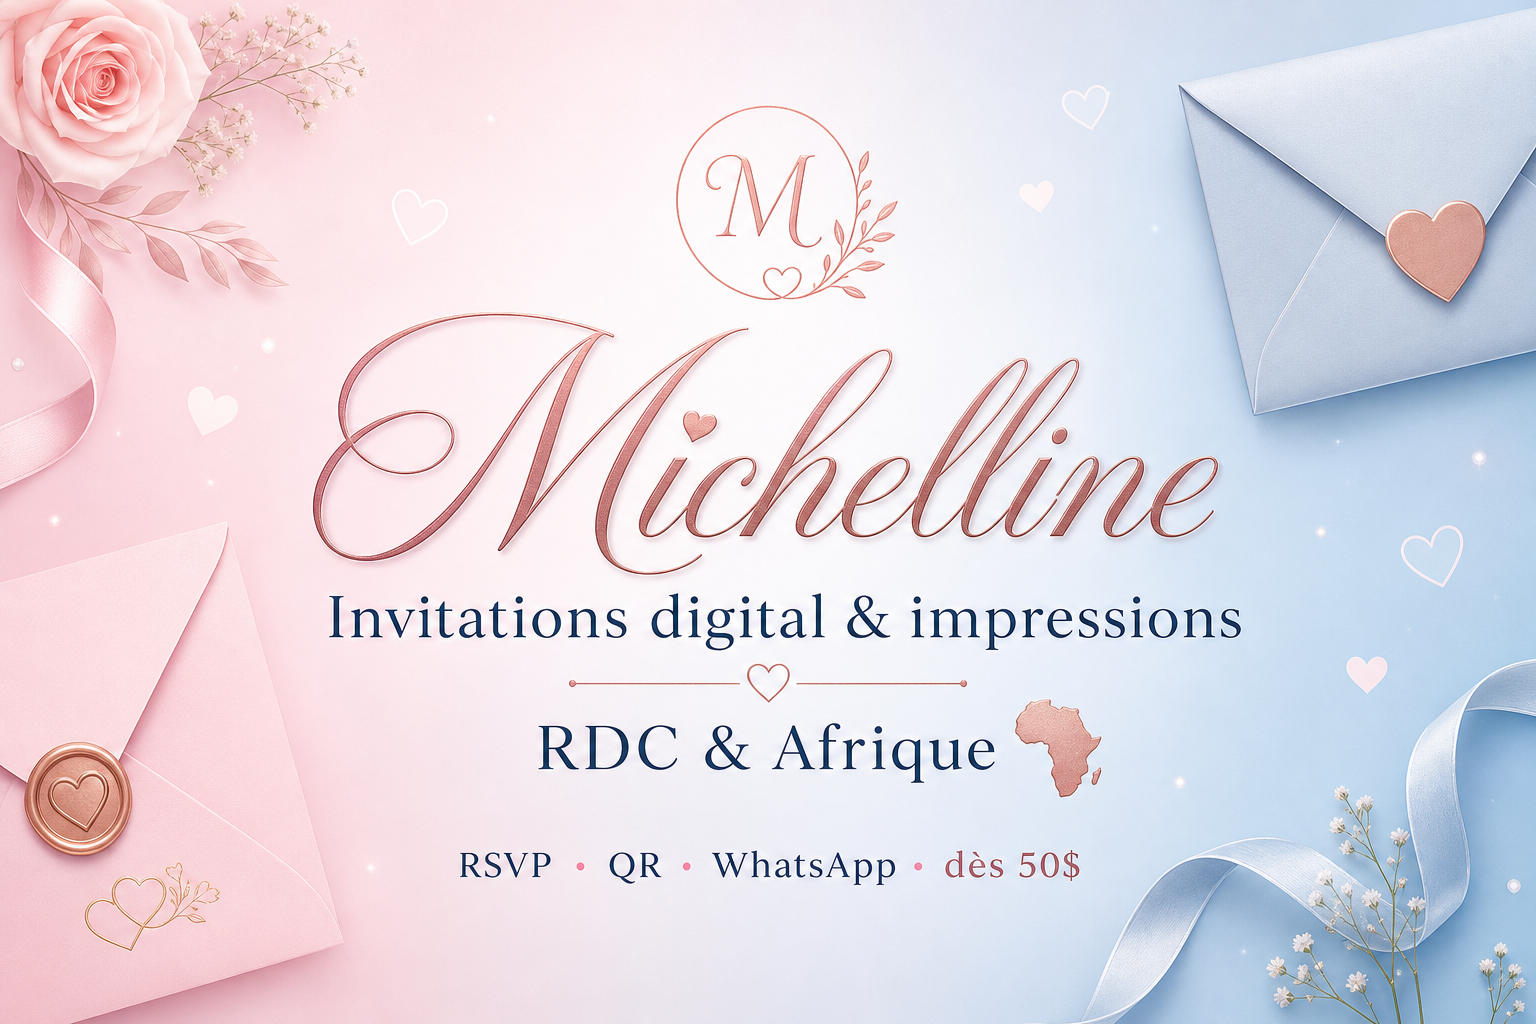
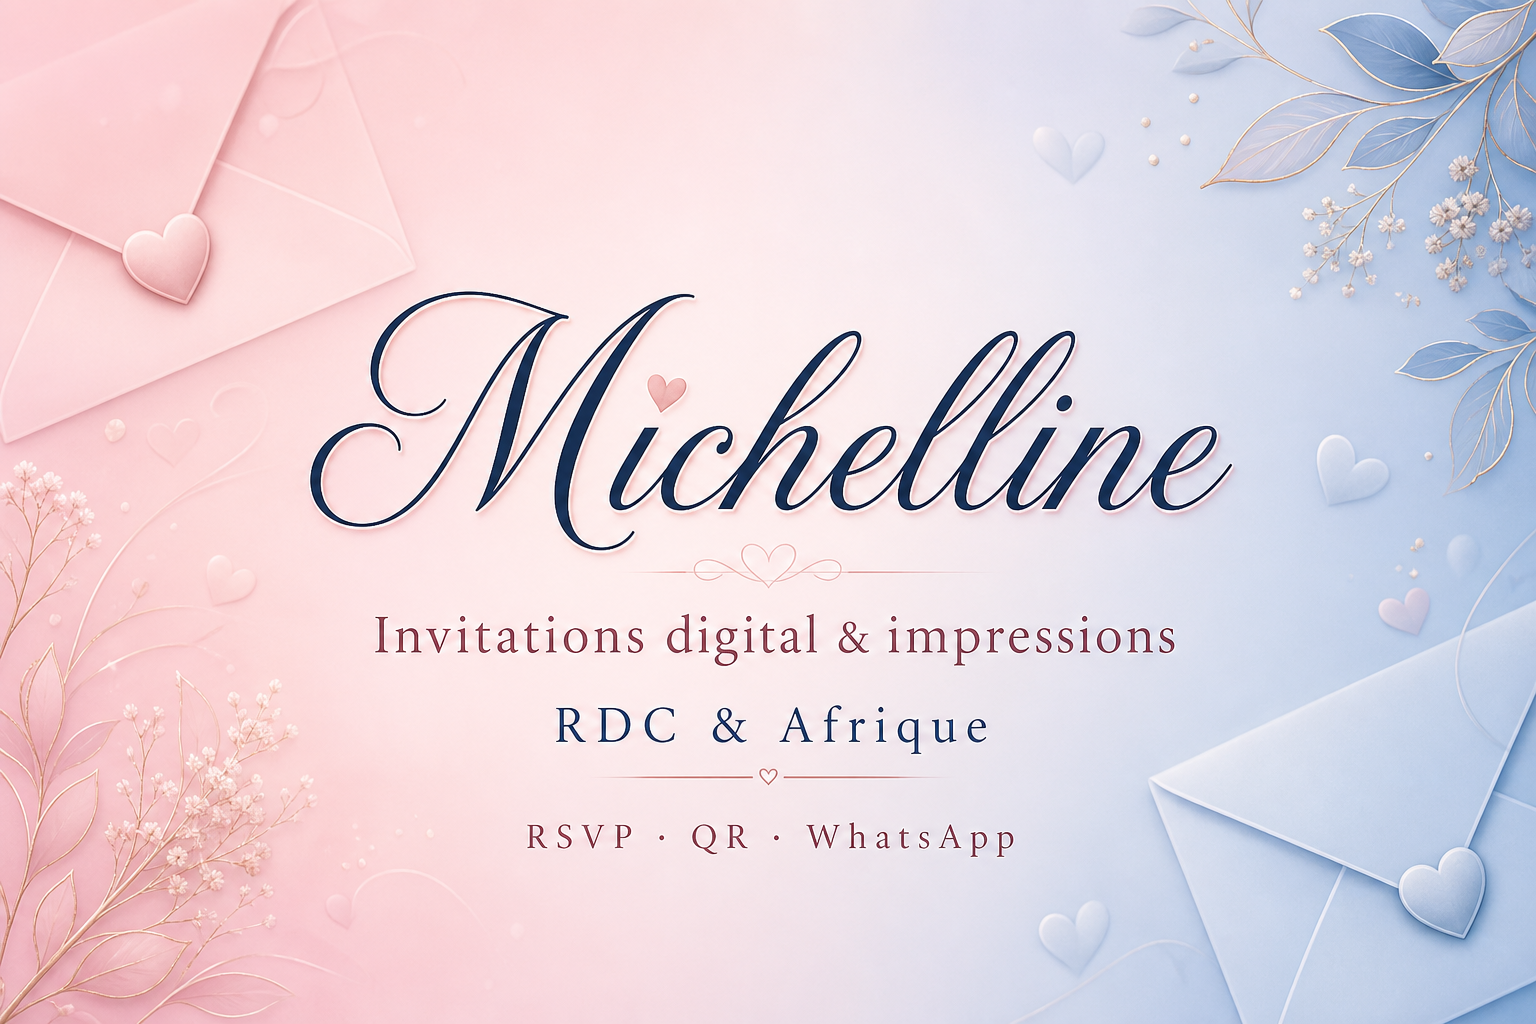
Accueil: banniere Michelline, OG sans prix, photos print corrigees, kit promo fixe.

diff --git a/index.html b/index.html
@@ -3,64 +3,81 @@
 <head>
     <meta charset="UTF-8">
     <meta name="viewport" content="width=device-width, initial-scale=1.0, viewport-fit=cover">
-    <meta name="theme-color" content="#4caf50">
-    <title>Michelline — Invitations digitales</title>
+    <meta name="theme-color" content="#ec4899">
+    <title>Michelline — Invitations digitales &amp; impressions</title>
+    <meta name="description" content="Michelline — Invitations digitales et impressions physiques. RSVP, QR, WhatsApp. RDC &amp; Afrique.">
+    <meta property="og:title" content="Michelline — Invitations digital &amp; impressions">
+    <meta property="og:description" content="RSVP mobile, QR code, WhatsApp. Digital et cartes imprimées. RDC &amp; Afrique.">
+    <meta property="og:image" content="https://alphagiven7-collab.github.io/invitation_mariage/assets/images/michelline-og-offres.png">
     <meta http-equiv="Cache-Control" content="no-cache, no-store, must-revalidate">
-    <meta http-equiv="Pragma" content="no-cache">
-    <meta http-equiv="Expires" content="0">
     <link href="https://fonts.googleapis.com/css2?family=Great+Vibes&family=Montserrat:wght@400;600&family=Playfair+Display:wght@600&display=swap" rel="stylesheet">
     <style>
         * { box-sizing: border-box; }
         body {
             margin: 0;
             min-height: 100vh;
+            min-height: 100dvh;
             font-family: "Montserrat", system-ui, sans-serif;
             background: linear-gradient(160deg, #fdf2f8 0%, #eef4ff 50%, #fafafa 100%);
             display: flex;
             align-items: center;
             justify-content: center;
-            padding: 1.25rem;
+            padding: 1rem;
             color: #1f2937;
         }
         .hub {
             width: 100%;
             max-width: 22rem;
-            background: rgba(255,255,255,0.95);
+            background: rgba(255,255,255,0.97);
             border-radius: 1.25rem;
-            padding: 1.75rem 1.25rem;
+            overflow: hidden;
             text-align: center;
-            box-shadow: 0 20px 50px rgba(17,24,39,0.1);
+            box-shadow: 0 20px 50px rgba(17,24,39,0.12);
             border: 1px solid rgba(236,72,153,0.15);
+        }
+        .hub-visual {
+            display: block;
+            width: 100%;
+            height: auto;
+            aspect-ratio: 1200 / 630;
+            object-fit: cover;
+            border-bottom: 1px solid rgba(236,72,153,0.12);
+        }
+        .hub-body {
+            padding: 1.25rem 1.15rem 1.5rem;
         }
         .hub-brand {
             font-family: "Great Vibes", cursive;
-            font-size: 2.5rem;
-            margin: 0 0 0.25rem;
+            font-size: 2.35rem;
+            margin: 0 0 0.15rem;
             line-height: 1.1;
+            color: #1f2937;
         }
         .hub-tag {
             font-size: 0.625rem;
             letter-spacing: 0.22em;
             text-transform: uppercase;
-            color: #9ca3af;
-            margin: 0 0 1.25rem;
+            color: #db2777;
+            margin: 0 0 0.85rem;
+            font-weight: 600;
         }
-        .hub p {
+        .hub-desc {
             font-size: 0.8125rem;
             color: #6b7280;
             line-height: 1.55;
-            margin: 0 0 1.25rem;
+            margin: 0 0 1.1rem;
         }
+        .hub-desc strong { color: #374151; }
         .hub-actions {
             display: flex;
             flex-direction: column;
-            gap: 0.65rem;
+            gap: 0.6rem;
         }
         .hub-btn {
             display: block;
-            padding: 0.9rem 1rem;
+            padding: 0.88rem 1rem;
             border-radius: 9999px;
-            font-size: 0.75rem;
+            font-size: 0.6875rem;
             font-weight: 700;
             letter-spacing: 0.08em;
             text-transform: uppercase;
@@ -77,9 +94,10 @@
             border: 1px solid rgba(17,24,39,0.12);
         }
         .hub-note {
-            margin-top: 1rem;
+            margin-top: 0.85rem;
             font-size: 0.625rem;
             color: #9ca3af;
+            line-height: 1.45;
         }
     </style>
     <script>
@@ -96,15 +114,25 @@
 </head>
 <body>
     <div class="hub">
-        <h1 class="hub-brand">Michelline</h1>
-        <p class="hub-tag">RDC &amp; Afrique</p>
-        <p>Invitations <strong>digitales</strong> et <strong>impressions physiques</strong> — RSVP, QR code, modèles imprimés.</p>
-        <div class="hub-actions">
-            <a class="hub-btn hub-btn--primary" href="./pages/offres.html?v=37">Voir les offres &amp; tarifs</a>
-            <a class="hub-btn hub-btn--secondary" href="./pages/partager.html?v=37">Kit promotion (QR, visuels)</a>
-            <a class="hub-btn hub-btn--secondary" href="./pages/invitation.html?event=yanick-keren&amp;v=37">Démo invitation</a>
+        <img
+            class="hub-visual"
+            src="./assets/images/michelline-og-offres.png?v=38"
+            alt="Michelline — Invitations digital et impressions, RDC et Afrique"
+            width="1200"
+            height="630"
+            loading="eager"
+        >
+        <div class="hub-body">
+            <h1 class="hub-brand">Michelline</h1>
+            <p class="hub-tag">RDC &amp; Afrique</p>
+            <p class="hub-desc">Invitations <strong>digitales</strong> et <strong>impressions physiques</strong> — RSVP, QR code, modèles imprimés.</p>
+            <div class="hub-actions">
+                <a class="hub-btn hub-btn--primary" href="./pages/offres.html?v=38">Voir les offres &amp; tarifs</a>
+                <a class="hub-btn hub-btn--secondary" href="./pages/partager.html?v=38">Kit promotion (QR, visuels)</a>
+                <a class="hub-btn hub-btn--secondary" href="./pages/invitation.html?event=yanick-keren&amp;v=38">Démo invitation</a>
+            </div>
+            <p class="hub-note">Lien court : …/o.html · Digital &amp; impression · Devis WhatsApp [phone redacted]</p>
         </div>
-        <p class="hub-note">Lien court : …/o.html · Digital 50·100·150 $ · Print dès 0,80 $/ex.</p>
     </div>
 </body>
 </html>

diff --git a/assets/css/offres.css b/assets/css/offres.css
@@ -99,11 +99,26 @@
     padding: 0 1rem 1.25rem;
 }
 
-.offres-block--overlap {
-    margin-top: -2.75rem;
-    position: relative;
-    z-index: 2;
+.offres-block--overlap-tight {
+    margin-top: -1rem;
 }
+
+.offres-block--banner {
+    padding: 0 1rem;
+    margin-top: -2.5rem;
+    position: relative;
+    z-index: 3;
+}
+
+.offres-brand-banner {
+    display: block;
+    width: 100%;
+    height: auto;
+    border-radius: 1rem;
+    box-shadow: 0 12px 32px rgba(17, 24, 39, 0.12);
+    border: 1px solid rgba(255, 255, 255, 0.85);
+}
+
 
 .offres-block--last {
     padding-bottom: 0.5rem;

diff --git a/pages/offres.html b/pages/offres.html
@@ -5,26 +5,26 @@
     <meta name="viewport" content="width=device-width, initial-scale=1.0, viewport-fit=cover">
     <meta name="color-scheme" content="light">
     <title>Michelline — Invitations digitales &amp; impressions</title>
-    <meta name="description" content="Michelline — Invitations digitales et impressions physiques. RSVP, QR, modèles imprimés. RDC &amp; Afrique. Digital dès 50 $.">
+    <meta name="description" content="Michelline — Invitations digitales et impressions physiques. RSVP, QR, modèles imprimés. RDC &amp; Afrique.">
     <meta name="theme-color" content="#4caf50">
     <link rel="canonical" href="https://alphagiven7-collab.github.io/invitation_mariage/pages/offres.html">
     <meta property="og:type" content="website">
     <meta property="og:locale" content="fr_FR">
     <meta property="og:site_name" content="Michelline">
     <meta property="og:title" content="Michelline — Invitations digital &amp; impressions">
-    <meta property="og:description" content="RSVP mobile, QR code, WhatsApp. Forfaits digital 50·100·150 $. Impression dès 0,80 $/ex. RDC &amp; Afrique.">
+    <meta property="og:description" content="RSVP mobile, QR code, WhatsApp. Digital et cartes imprimées. RDC &amp; Afrique.">
     <meta property="og:url" content="https://alphagiven7-collab.github.io/invitation_mariage/pages/offres.html">
     <meta property="og:image" content="https://alphagiven7-collab.github.io/invitation_mariage/assets/images/michelline-og-offres.png">
     <meta property="og:image:width" content="1200">
     <meta property="og:image:height" content="630">
     <meta name="twitter:card" content="summary_large_image">
     <meta name="twitter:title" content="Michelline — Invitations digital &amp; impressions">
-    <meta name="twitter:description" content="RSVP, QR, WhatsApp. Digital dès 50 $. Impression dès 0,80 $/ex.">
+    <meta name="twitter:description" content="RSVP, QR, WhatsApp. Digital et impressions. RDC &amp; Afrique.">
     <meta name="twitter:image" content="https://alphagiven7-collab.github.io/invitation_mariage/assets/images/michelline-og-offres.png">
-    <link rel="stylesheet" href="../assets/css/tailwind.min.css?v=37">
+    <link rel="stylesheet" href="../assets/css/tailwind.min.css?v=38">
     <link href="https://fonts.googleapis.com/css2?family=Great+Vibes&family=Montserrat:wght@300;400;500;600;700&family=Playfair+Display:ital,wght@0,400;0,600;1,400&display=swap" rel="stylesheet">
-    <link rel="stylesheet" href="../assets/css/app.css?v=37">
-    <link rel="stylesheet" href="../assets/css/offres.css?v=37">
+    <link rel="stylesheet" href="../assets/css/app.css?v=38">
+    <link rel="stylesheet" href="../assets/css/offres.css?v=38">
 </head>
 <body class="offres-page antialiased text-gray-800">
 
@@ -206,7 +206,7 @@
             <div class="offres-print-models">
                 <article class="offres-print-card glass-card rounded-2xl">
                     <figure class="offres-print-visual">
-                        <img src="https://images.unsplash.com/photo-1513889929100-d79431423261?auto=format&fit=crop&w=500&q=80" alt="Modèle Classique" loading="lazy">
+                        <img src="https://images.unsplash.com/photo-1568667256549-094345857637?auto=format&fit=crop&w=500&q=80" alt="Modèle Classique" loading="lazy">
                         <span class="offres-print-tag">Modèle 1</span>
                     </figure>
                     <div class="offres-print-body">
@@ -221,7 +221,7 @@
                 <article class="offres-print-card offres-print-card--featured invitation-card invitation-card--floral rounded-2xl">
                     <span class="offres-plan-badge">Populaire</span>
                     <figure class="offres-print-visual">
-                        <img src="https://images.unsplash.com/photo-1606800052052-a08af034886a?auto=format&fit=crop&w=500&q=80" alt="Modèle Élégance" loading="lazy">
+                        <img src="https://images.unsplash.com/photo-1519225421980-715cb0215aed?auto=format&fit=crop&w=500&q=80" alt="Modèle Élégance" loading="lazy">
                         <span class="offres-print-tag">Modèle 2</span>
                     </figure>
                     <div class="offres-print-body">

diff --git a/assets/js/share-kit.js b/assets/js/share-kit.js
@@ -10,9 +10,9 @@
     const WA_DISPLAY = "[phone redacted]";
 
     const CAPTIONS = {
-        whatsapp: `💍 Michelline — invitations digital + impression physique\n✅ RSVP mobile · QR jour J · modèles imprimés\n📦 Digital dès 50 $ · Impression dès 0,80 $/ex.\n👉 ${SHORT_URL}\n📱 Devis : ${WA_DISPLAY}`,
-        instagram: `Votre mariage mérite une invitation à la hauteur 💌\n\nDigital : RSVP, WhatsApp, QR code\nPhysique : cartes imprimées premium\n\nTarifs → lien en bio\nRDC & Afrique 🌍\n\n#MariageRDC #WeddingKinshasa #InvitationDigitale #Michelline #Mariage2026`,
-        facebook: `Michelline — invitations digitales & impressions physiques pour votre mariage (RDC & Afrique).\n\n✓ Enveloppe personnalisée + RSVP mobile\n✓ QR code jour J\n✓ Cartes imprimées dès 0,80 $/ex.\n✓ Forfaits digital : 50 · 100 · 150 $\n\nDémo live et tarifs : ${SHORT_URL}\nWhatsApp : ${WA_DISPLAY}`
+        whatsapp: `💍 Michelline — invitations digital + impression physique\n✅ RSVP mobile · QR jour J · modèles imprimés\n👉 ${SHORT_URL}\n📱 Devis : ${WA_DISPLAY}`,
+        instagram: `Votre mariage mérite une invitation à la hauteur 💌\n\nDigital : RSVP, WhatsApp, QR code\nPhysique : cartes imprimées premium\n\nTarifs sur le lien en bio\nRDC & Afrique 🌍\n\n#MariageRDC #WeddingKinshasa #InvitationDigitale #Michelline #Mariage2026`,
+        facebook: `Michelline — invitations digitales & impressions physiques pour votre mariage (RDC & Afrique).\n\n✓ Enveloppe personnalisée + RSVP mobile\n✓ QR code jour J\n✓ Cartes imprimées sur mesure\n\nTarifs et démo : ${SHORT_URL}\nWhatsApp : ${WA_DISPLAY}`
     };
 
     function qrImgUrl(data, size) {
@@ -100,10 +100,8 @@
         ctx.fillText("RSVP · QR · WhatsApp", w / 2, 440);
 
         ctx.fillStyle = "#db2777";
-        ctx.font = "700 42px Montserrat, sans-serif";
-        ctx.fillText("Digital : 50 · 100 · 150 $", w / 2, 520);
-        ctx.font = "600 32px Montserrat, sans-serif";
-        ctx.fillText("Impression : dès 0,80 $ / ex.", w / 2, 575);
+        ctx.font = "600 28px Montserrat, sans-serif";
+        ctx.fillText("Digital & impressions", w / 2, 520);
 
         const qrSize = 280;
         const qrX = (w - qrSize) / 2;

diff --git a/pages/partager.html b/pages/partager.html
@@ -9,12 +9,12 @@
     <meta name="theme-color" content="#4caf50">
     <meta property="og:type" content="website">
     <meta property="og:title" content="Michelline — Invitations digital &amp; impressions">
-    <meta property="og:description" content="RSVP, QR, WhatsApp. Digital dès 50 $. Impression dès 0,80 $/ex. RDC &amp; Afrique.">
+    <meta property="og:description" content="RSVP, QR, WhatsApp. Digital et cartes imprimées. RDC &amp; Afrique.">
     <meta property="og:url" content="https://alphagiven7-collab.github.io/invitation_mariage/pages/partager.html">
-    <meta property="og:image" content="https://alphagiven7-collab.github.io/invitation_mariage/assets/images/michelline-og-offres.png">
+    <meta property="og:image" content="https://alphagiven7-collab.github.io/invitation_mariage/assets/images/michelline-og-offres.png?v=38">
     <meta name="twitter:card" content="summary_large_image">
     <link href="https://fonts.googleapis.com/css2?family=Great+Vibes&family=Montserrat:wght@400;500;600;700&family=Playfair+Display:wght@600&display=swap" rel="stylesheet">
-    <link rel="stylesheet" href="../assets/css/partager.css?v=37">
+    <link rel="stylesheet" href="../assets/css/partager.css?v=38">
 </head>
 <body class="share-page">
 
@@ -54,7 +54,7 @@
             <article class="share-card">
                 <h2>Aperçu réseaux sociaux</h2>
                 <p class="share-card-desc">Voici l’image affichée quand vous partagez le lien sur WhatsApp ou Facebook.</p>
-                <img class="share-preview-og" src="../assets/images/michelline-og-offres.png" alt="Aperçu Michelline Open Graph" width="600" height="315">
+                <img class="share-preview-og" src="https://alphagiven7-collab.github.io/invitation_mariage/assets/images/michelline-og-offres.png?v=38" alt="Aperçu Michelline" width="600" height="315">
             </article>
 
             <article class="share-card">
@@ -95,6 +95,6 @@
         <a class="share-back" href="./offres.html">← Retour aux offres</a>
     </main>
 
-    <script src="../assets/js/share-kit.js?v=37"></script>
+    <script src="../assets/js/share-kit.js?v=38"></script>
 </body>
 </html>